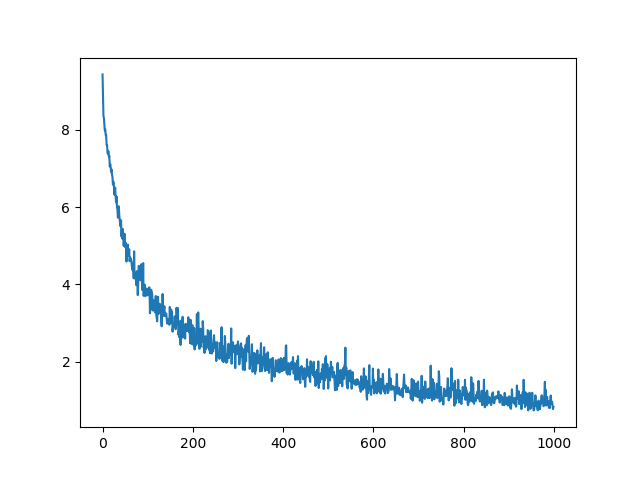
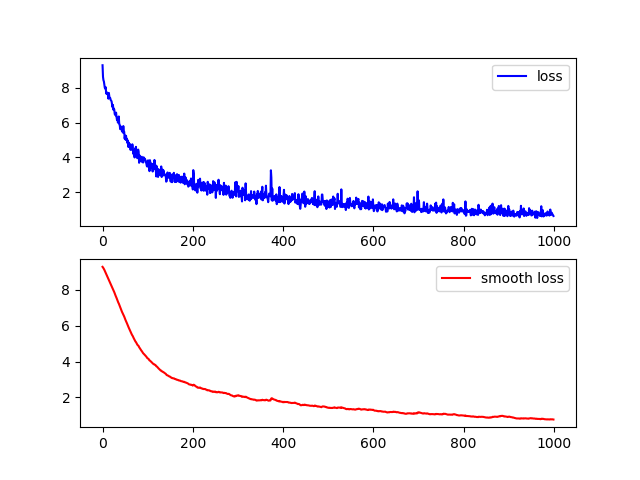
1.1(smooth loss added)

diff --git a/run_network.py b/run_network.py
@@ -2,7 +2,6 @@ import numpy as np
 import help_functions as hf
 from network_class import neural_network
 import matplotlib.pyplot as plt
-np.random.seed(10)
 
 spirals = 4
 X,Y = hf.make_spirals(n_rows=100, spirals=spirals, theta=0.11)
@@ -24,6 +23,8 @@ init_rate = 0.001
 rate = float(init_rate)
 
 losses = []
+smooth_losses = []
+smooth_loss = 0.0
 epochs = 1000
 
 for epoch in range(1, epochs+1):
@@ -35,7 +36,11 @@ for epoch in range(1, epochs+1):
     for mb in minibatches:
         loss += model.run_epoch(mb[0], mb[1], rate) 
     
+    if epoch != 1: smooth_loss = 0.95*smooth_loss + 0.05*loss
+    else: smooth_loss = loss
+    
     losses.append(loss)
+    smooth_losses.append(smooth_loss)
     if epoch % 100 == 0:
         print('Epoch: %i/%i, Rate: %.4f, Loss: %.4f'
               % (epoch, epochs, rate, loss,))
@@ -52,6 +57,11 @@ fig.savefig('test.png')
 plt.close(fig)
 
 fig, ax = plt.subplots( nrows=1, ncols=1 ) 
-plt.plot(np.arange(epochs), losses)
+plt.subplot(2,1,1)
+line1, = plt.plot(np.arange(epochs), losses, c='blue', label='loss')
+plt.legend(handles=[line1], loc=1)
+plt.subplot(2,1,2)
+line2, = plt.plot(np.arange(epochs), smooth_losses, c='red', label='smooth loss')
+plt.legend(handles=[line2], loc=1)
 fig.savefig('losses.png')   
 plt.close(fig)
